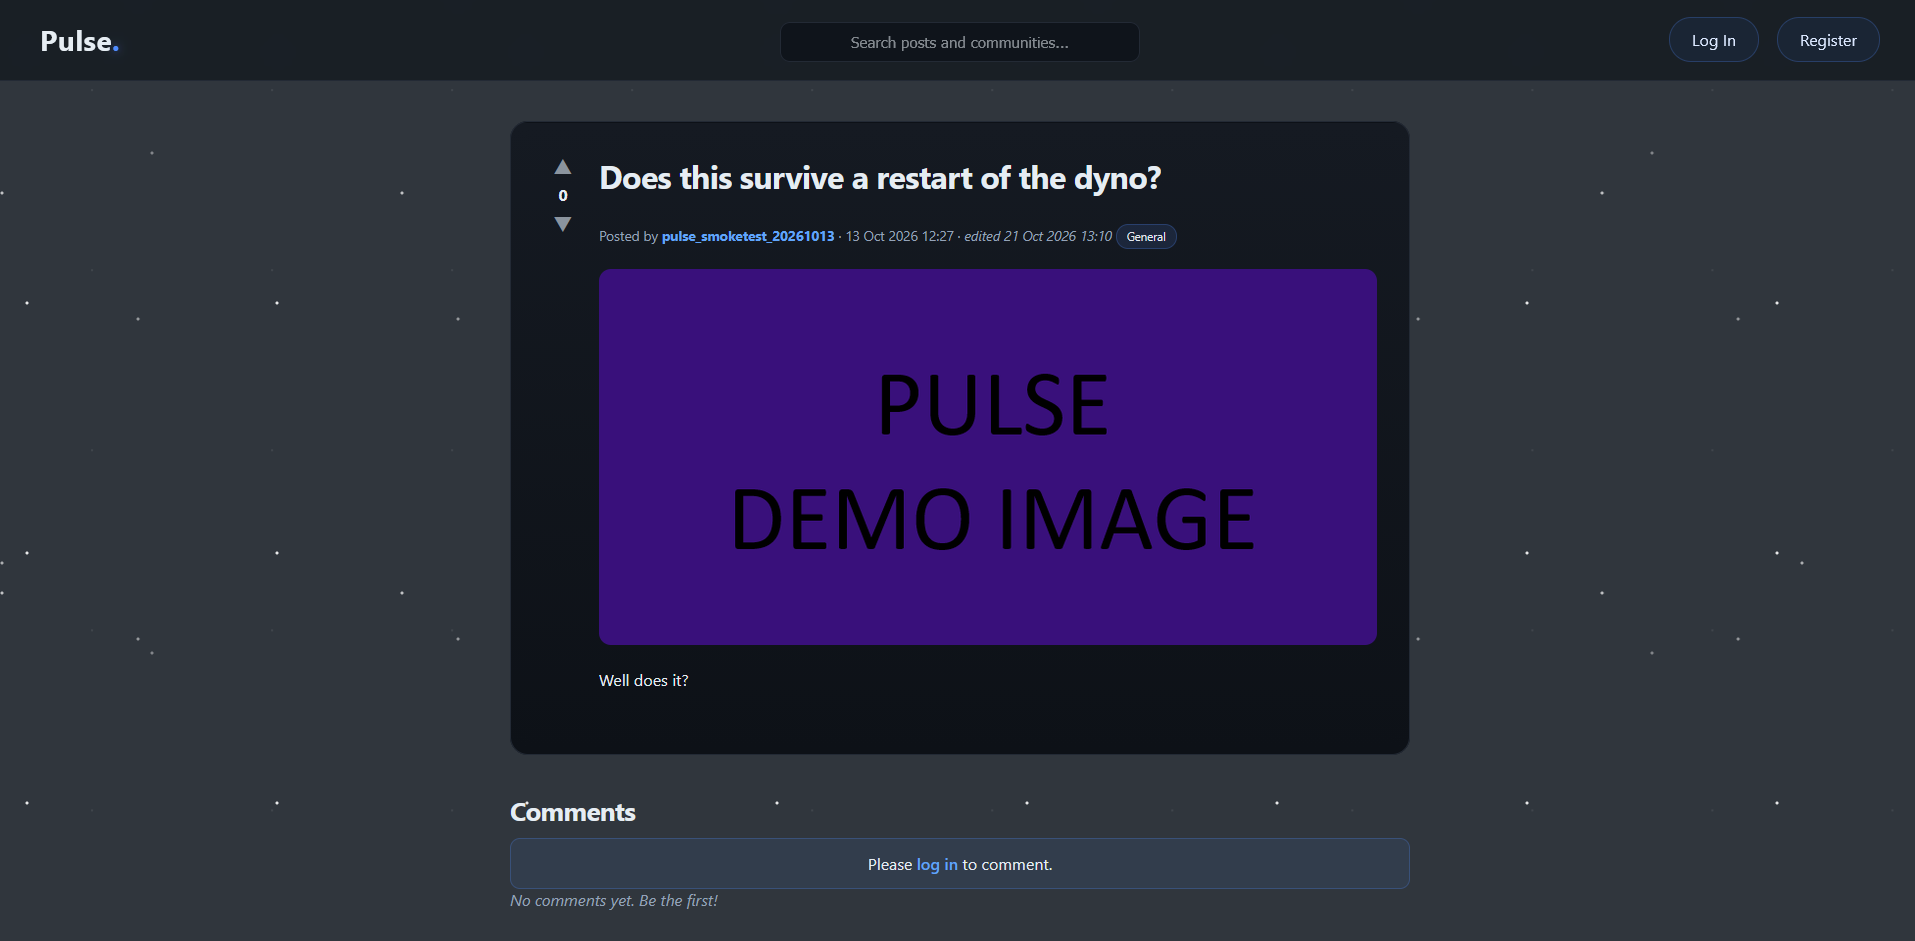
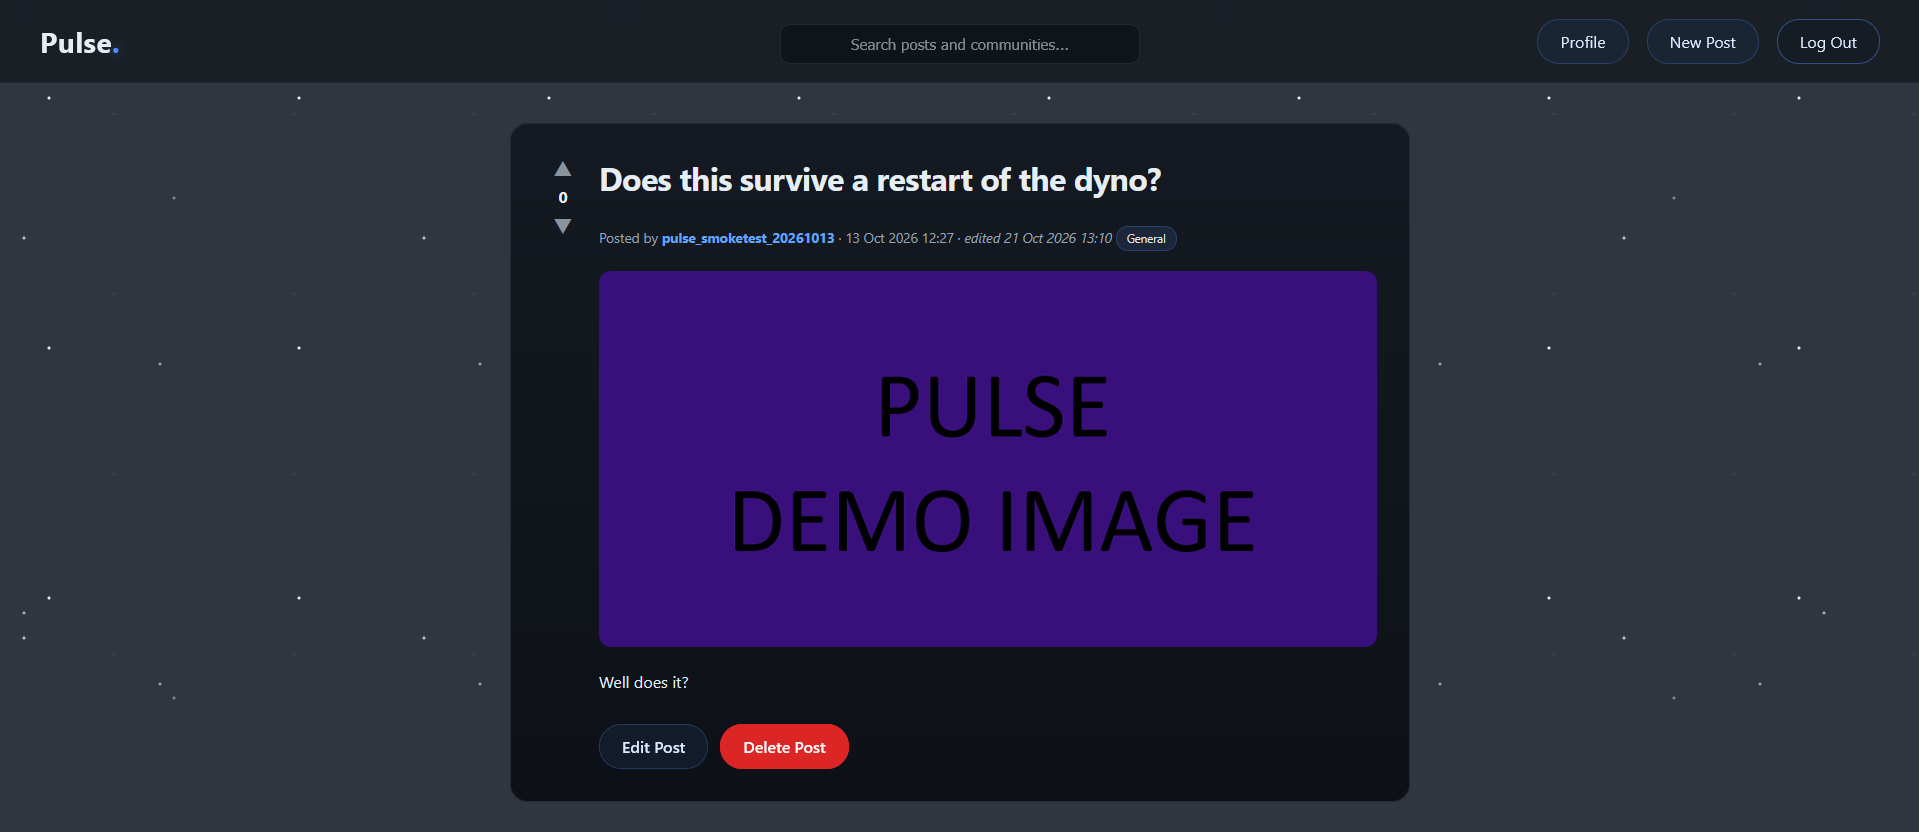
Improve user story validation evidence

diff --git a/README.md b/README.md
@@ -32,7 +32,7 @@ This approach was taken to maintain a security-conscious and responsible develop
 - [User Features](#user-features)
 - [User Stories](#user-stories)
 - [User Story Mapping](#user-story-mapping)
-- [User Story Validation (Screenshots)](#user-story-validation-screenshots)
+- [User Story Validation](#user-story-validation)
 - [Wireframes](#wireframes)
 - [Testing](#testing)
 - [Assessment Remediation](#assessment-remediation)
@@ -738,104 +738,108 @@ Detailed testing evidence is maintained in `TESTING.md`.
 
 ---
 
-## User Story Validation (Screenshots)
+## User Story Validation
 
-The following screenshots provide visual evidence that the key user stories identified for this project have been implemented successfully. The system is designed to support structured discussion, easy navigation, and clear user interaction flows.
+The user stories identified during planning were validated against the finished
+application using the final production interface and supporting screenshots.
+Rather than repeating each user story as a checklist, this section groups the
+main user journeys and shows how Pulse satisfies them in practice.
 
 <details>
 <summary>Click to expand user story validation</summary>
 
 ---
 
-### New User / Visitor
+### Visitor Onboarding and Account Access
 
-**User Need:**  
-As a visitor, I want to register an account and understand the platform so that I can decide to join the community.
+Pulse supports new visitors with a clear landing page, straightforward
+registration flow, and secure authentication process. New users can understand
+the purpose of the platform before joining, create an account, and log in using
+Django's authentication system.
 
-**Evidence:**  
-- Registration form enforces username and password validation rules.  
-- Clean landing page introduces platform purpose and navigation options.
+**Validation highlights**
+- The landing page introduces the platform clearly and provides obvious
+  navigation.
+- Registration enforces username and password validation rules.
+- Login validates credentials and returns users to the appropriate destination.
 
 ![Registration page](pulse/screenshots/register.png)
 ![Landing page](pulse/screenshots/landing.png)
-
----
-
-### Authenticated User
-
-**User Need:**  
-As a user, I want to log in and log out so that I can securely manage my account access.
-
-**Evidence:**  
-- Login system validates credentials and redirects users appropriately.  
-- Logout clears session securely.
-
 ![Login page](pulse/screenshots/login.png)
 
 ---
 
-### Content Creator
+### Creating and Managing Content
 
-**User Need:**  
-As a user, I want to create, edit, and delete posts so that I can manage my content freely.
+Authenticated users can create discussion posts, upload an optional image,
+edit their own content, and remove it when no longer needed. Ownership
+restrictions ensure that editing and deletion controls are only available to
+the correct author.
 
-**Evidence:**  
-- Post creation form allows structured input for title and content.  
-- Edit and delete options are restricted to the post author only.
+**Validation highlights**
+- The create-post form supports structured content creation.
+- Post management controls are visible on owned content.
+- Edit and delete actions are restricted to the post author.
 
 ![Create post page](pulse/screenshots/create-post.png)
 ![Post detail view](pulse/screenshots/post-detail.png)
 
 ---
 
-### Reader / Community Member
+### Reading, Discussion and Community Interaction
 
-**User Need:**  
-As a user, I want to browse posts and engage with comments so that I can participate in discussions.
+Pulse allows users to browse recent discussions, open full post details,
+interact with comments, and participate in community discussion through a clear
+thread structure.
 
-**Evidence:**  
-- Posts are displayed in reverse chronological order.  
-- Comment system is visible under each post with timestamps and user attribution.
+**Validation highlights**
+- The post feed presents content in reverse chronological order.
+- Individual posts display comments, metadata and interaction controls.
+- Comment activity remains visible and easy to follow within the discussion.
 
 ![Post feed](pulse/screenshots/post-feed.png)
 ![Comments section](pulse/screenshots/comments.png)
 
 ---
 
-### Explorer / Discovery User
+### Search and Discovery
 
-**User Need:**  
-As a user, I want to search and filter posts so that I can find relevant discussions quickly.
+Users can find relevant discussions quickly through keyword search and
+department-based browsing. Search results preserve the current query in the
+navigation search field, helping users refine or repeat searches easily.
 
-**Evidence:**  
-- Search functionality filters posts by keywords in title and content.  
-- Empty state messaging is displayed when no results are found.
+**Validation highlights**
+- Search filters posts by title and content.
+- The interface supports exploration across discussions and communities.
+- Search results handle both populated and empty-result states appropriately.
 
 ![Search results](pulse/screenshots/search.png)
 
 ---
 
-### Profile-Focused User
+### Profiles and User Activity
 
-**User Need:**  
-As a user, I want to view profiles so that I can explore user activity and contributions.
+Pulse includes public profile pages so users can explore another member's
+activity without exposing private data. This helps users understand who is
+contributing to the discussion platform.
 
-**Evidence:**  
-- Profile pages display user posts and basic account information.  
-- Users can view other public profiles without accessing private data.
+**Validation highlights**
+- Profile pages display a user's posts and account information.
+- Public profile access supports exploration without exposing sensitive data.
 
 ![Profile page](pulse/screenshots/profile.png)
 
 ---
 
-### Mobile / Multi-Device User
+### Responsive Multi-Device Experience
 
-**User Need:**  
-As a user, I want a responsive interface so that I can use the platform on any device.
+The interface remains usable across different screen sizes, with layouts,
+navigation and interaction controls adapting appropriately for smaller devices.
 
-**Evidence:**  
-- Layout adapts dynamically to screen size.  
-- Navigation remains usable across desktop and mobile views.
+**Validation highlights**
+- The layout adapts cleanly across desktop and mobile screen sizes.
+- Navigation remains accessible and usable on smaller viewports.
+- Core user journeys remain available on mobile without feature loss.
 
 ![Mobile view](pulse/screenshots/mobile-view.png)
 
